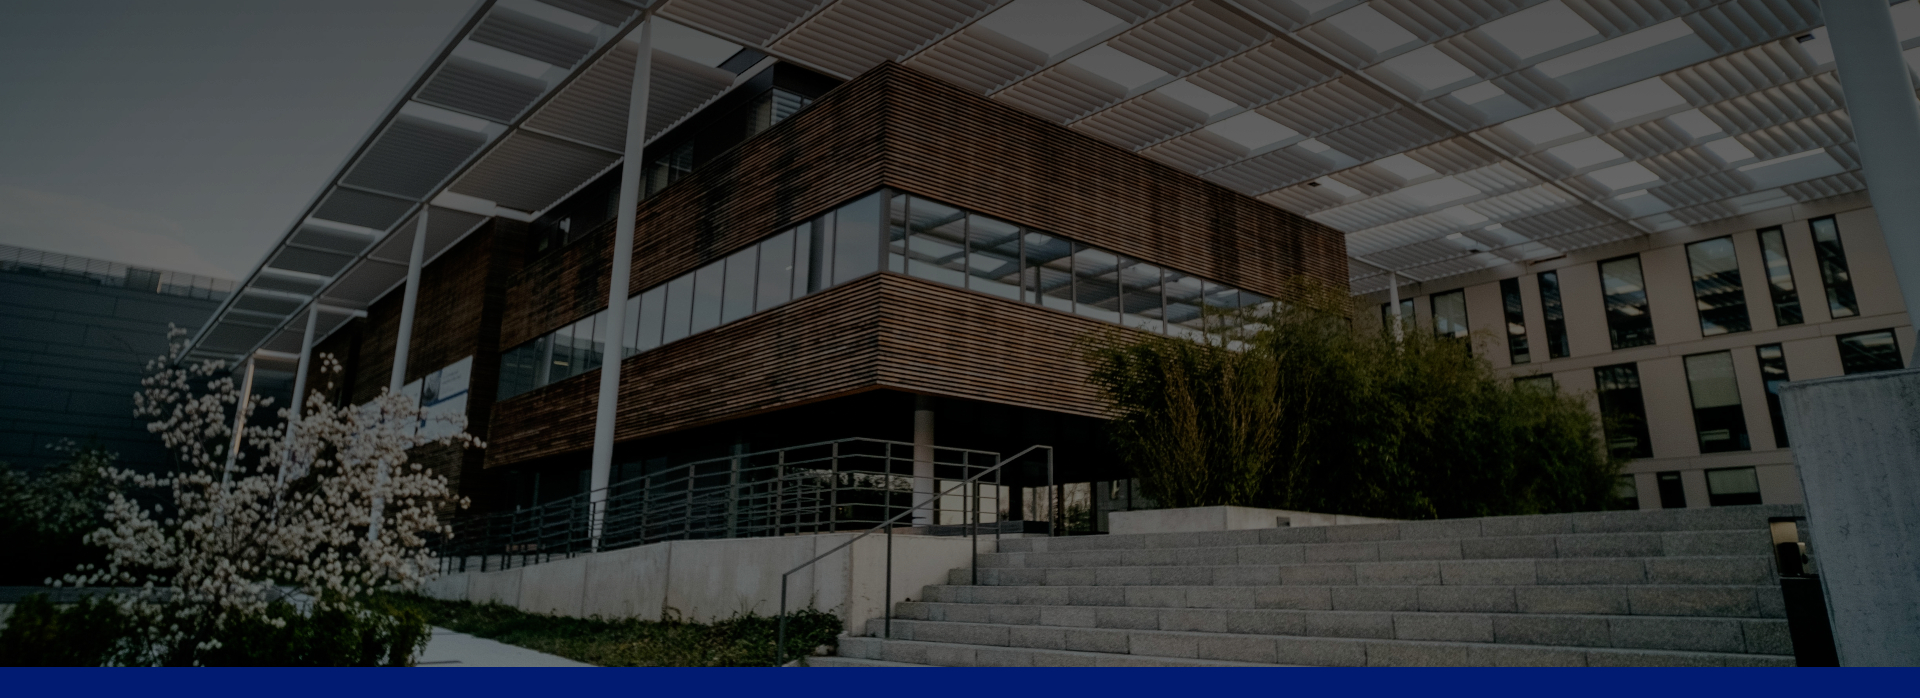
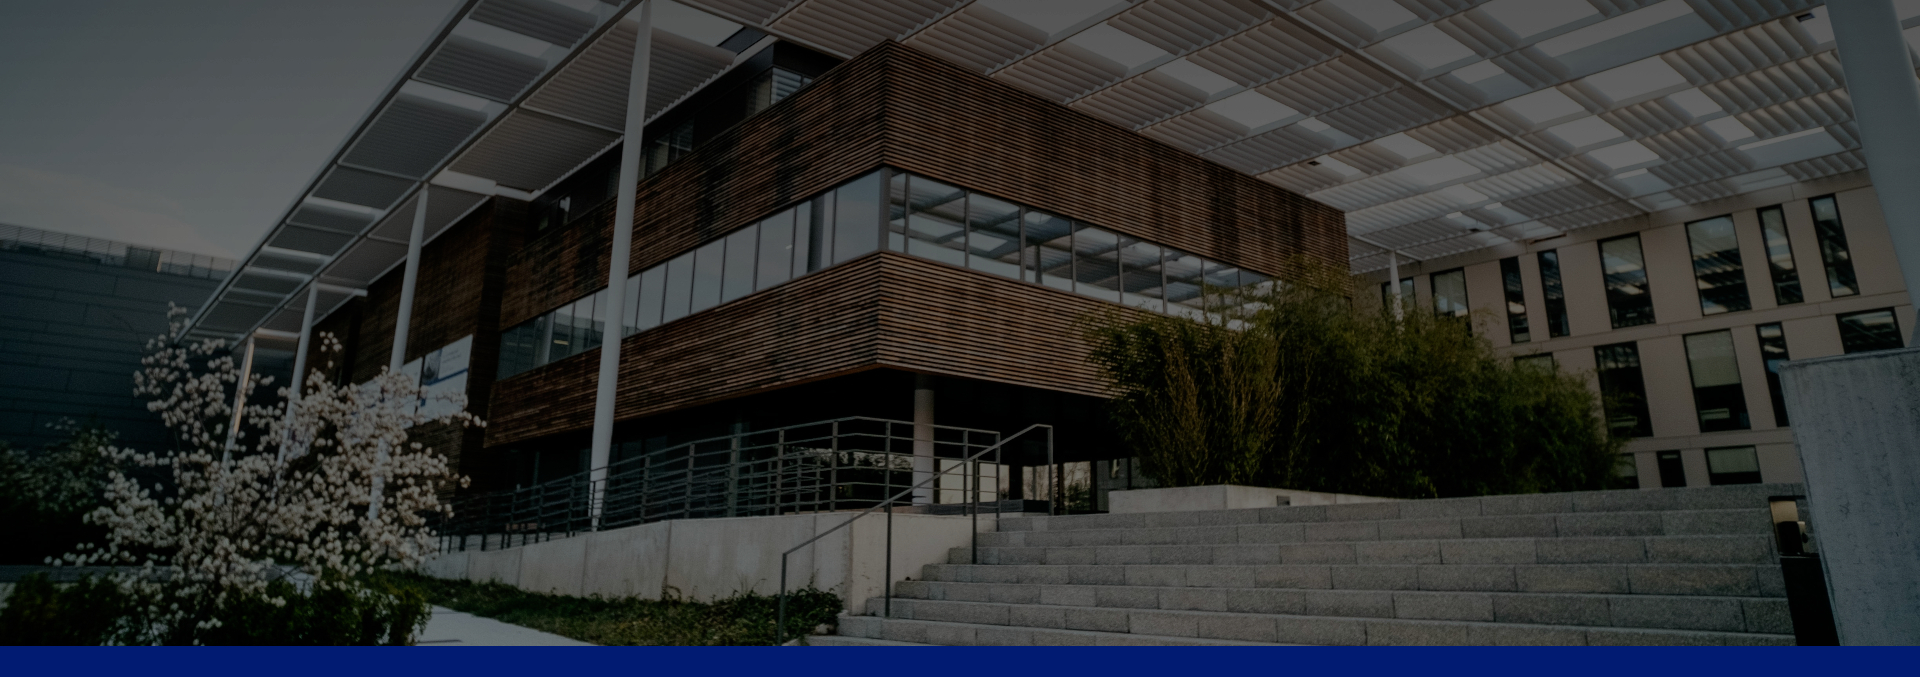
--

diff --git a/resources/js/Pages/Front/Footer.vue b/resources/js/Pages/Front/Footer.vue
@@ -3,29 +3,35 @@
     <div class="container">
         <div class="row gy-4">
             <div class="col-lg-3 col-md-12 footer-info">
-                <a href="index.html" class="logo d-flex align-items-center"> <span>www.dossa-group.com</span> </a>
+                <a href="#" class="logo text-center"> <span>www.dossa-group.com</span> </a>
                 <img src="../../../../public/statics/images/logo.png" class="img-fluid" alt="">
 
             </div>
             <div class="col-lg-3 col-6 footer-links text-end pe-md-5">
                 <h4>Useful Links</h4>
                 <ul>
-                    <li><a href="index.html#">Accueil</a></li>
-                    <li><a href="index.html#">Plans</a></li>
-                    <li><a href="index.html#">Nos projets</a></li>
-                    <li><a href="index.html#">Nos réalisations</a></li>
-                    <li><a href="index.html#">Qui sommes-nous ?</a></li>
-                    <li><a href="index.html#">Contacts</a></li>
-                    <li><a href="index.html#">Conseil</a></li>
+                    <li><a href="##">Accueil</a></li>
+                    <li><a href="##">Plans</a></li>
+                    <li><a href="##">Nos projets</a></li>
+                    <li><a href="##">Nos réalisations</a></li>
+                    <li><a href="##">Qui sommes-nous ?</a></li>
+                    <li><a href="##">Contacts</a></li>
+                    <li><a href="##">Conseil</a></li>
                 </ul>
             </div>
             <div class="col-lg-3 col-6 footer-links">
                 <div class="row">
-                    <input type="text" class="form-control">
-                    <button type="submit" class="float-sm-end btn btn-primary mt-3">Envoyer</button>
+                    <div class="col-12">
+                        <input type="text" class="form-control">
+
+                    </div>
+                    <div class="col-12">
+                        <button type="submit" class="float-sm-end btn btn-primary   mt-1">Envoyer</button>
+
+                    </div>
 
                 </div>
-                <div class="row">
+                <div class="row mt-3">
                     <p class="text-end"> 1er site 100% africain dédié au plan sur mesure et à la construction</p>
 
                 </div>

diff --git a/resources/js/Pages/Front/Welcome.vue b/resources/js/Pages/Front/Welcome.vue
@@ -164,7 +164,7 @@ export default {
     background-attachment: fixed;
 
     background-size: cover;
-    height: 1280px;
+    height: 650px;
 
 }
 
@@ -185,5 +185,8 @@ export default {
     height: 8px;
     width: 20%;
     background-color: #2b7de1;
+}
+#services {
+    border-top: 20px solid #001b71;
 }
 </style>

diff --git a/public/statics/css/style.css b/public/statics/css/style.css
@@ -2609,7 +2609,7 @@
   }
   
   .footer .footer-info .logo span {
-    font-size: 30px;
+    font-size: 20px;
     font-weight: 700;
     letter-spacing: 1px;
     color: #fff;
